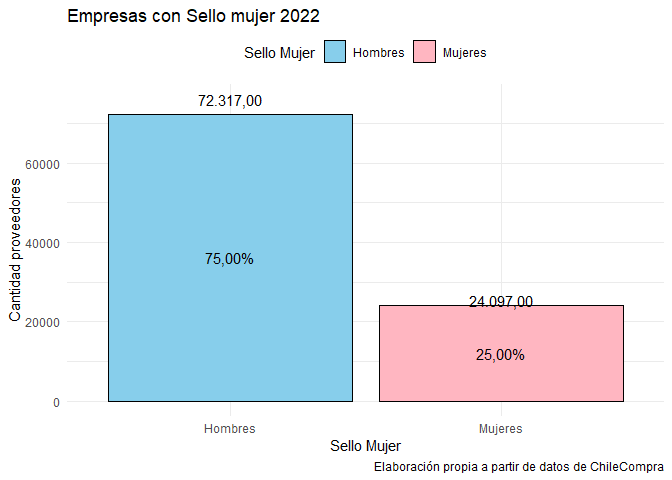
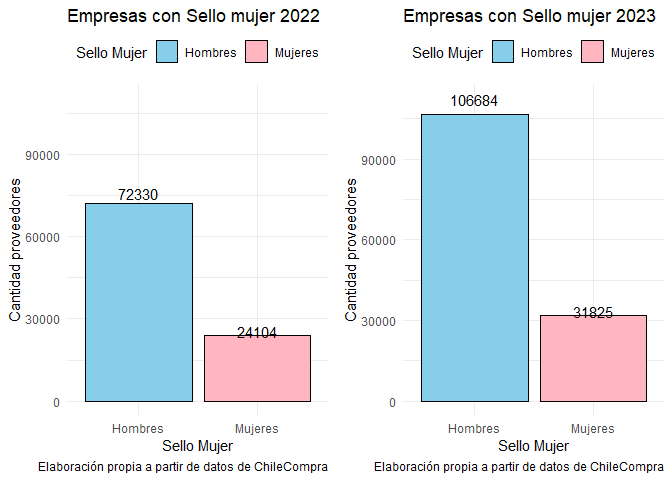
Actualización del cuaderno de investigación

diff --git a/README.md b/README.md
@@ -104,42 +104,17 @@ adelante.
 
 ## Cantidad y Tasa de Participación de proveedoras en el sistema
 
-``` r
-q_4 = readr::read_rds(file = "sello_proveedores.rds") %>% 
-  mutate(Sello = formattable::comma(Sello, decimal.mark = ",", big.mark = "."), 
-         prop = formattable::comma(prop, decimal.mark = ",", big.mark = ".")) 
-
-colores <- c("Hombres" = "#87CEEB",  # Celeste pastel para Hombres
-             "Mujeres" = "#FFB6C1")  # Rosado pastel para Mujeres
-
-ggplot(q_4, aes(x = reorder(`Sello Mujer`, -Sello), y = `Sello`, fill = `Sello Mujer`)) +
-  geom_bar(stat = "identity", color = "black") +
-  scale_fill_manual(values = colores)+
-   geom_text(aes(label = paste0(round(prop, 1), "%")), position = position_stack(vjust = 0.5)) +
-   geom_text(aes(label = paste0(round(Sello, 0))), position = position_stack(vjust = 1.05))+
-  labs(title = "Empresas con Sello mujer 2022",
-       x = "Sello Mujer",
-       y = "Cantidad proveedores",
-       caption = "Elaboración propia a partir de datos de ChileCompra") +
-  theme_minimal() +
-  theme(legend.position = "top")
-```
-
 ![](README_files/figure-gfm/unnamed-chunk-5-1.png)<!-- -->
 
-``` r
-# kable(
-#   q_4,
-#   col.names = c("Sello Mujer", "Cantidad proveedores", "Proporción del total"),
-#   digits = 2,
-#   caption = "Empresas con Sello mujer 2022"
-#   ) %>% kable_styling(font_size = 7, latex_options="scale_down") %>%
-#   footnote(
-#     general = "Elaboración propia a partir de datos de ChileCompra",
-#     general_title = "Nota:",
-#     footnote_as_chunk = TRUE
-#     )
-```
+De este cuadro se desprende que entre los años 2022 y 2023 se puede
+apreciar un aumento importante de proveedores activos en general en
+Mercado Público, con un aumento del 43% al pasar de 96.434 en 2022 a
+138.509 en 2023.
+
+Sin embargo, se aprecia que el aumento de empresas proveedoras lideradas
+por hombres es mayor al aumento de emmpresas lideradas por mujeres, pues
+las primeras experimentaron un aumento de un orden de 47% mientras que
+las segundas en un orden de 32%
 
 ## Propuesta
 
